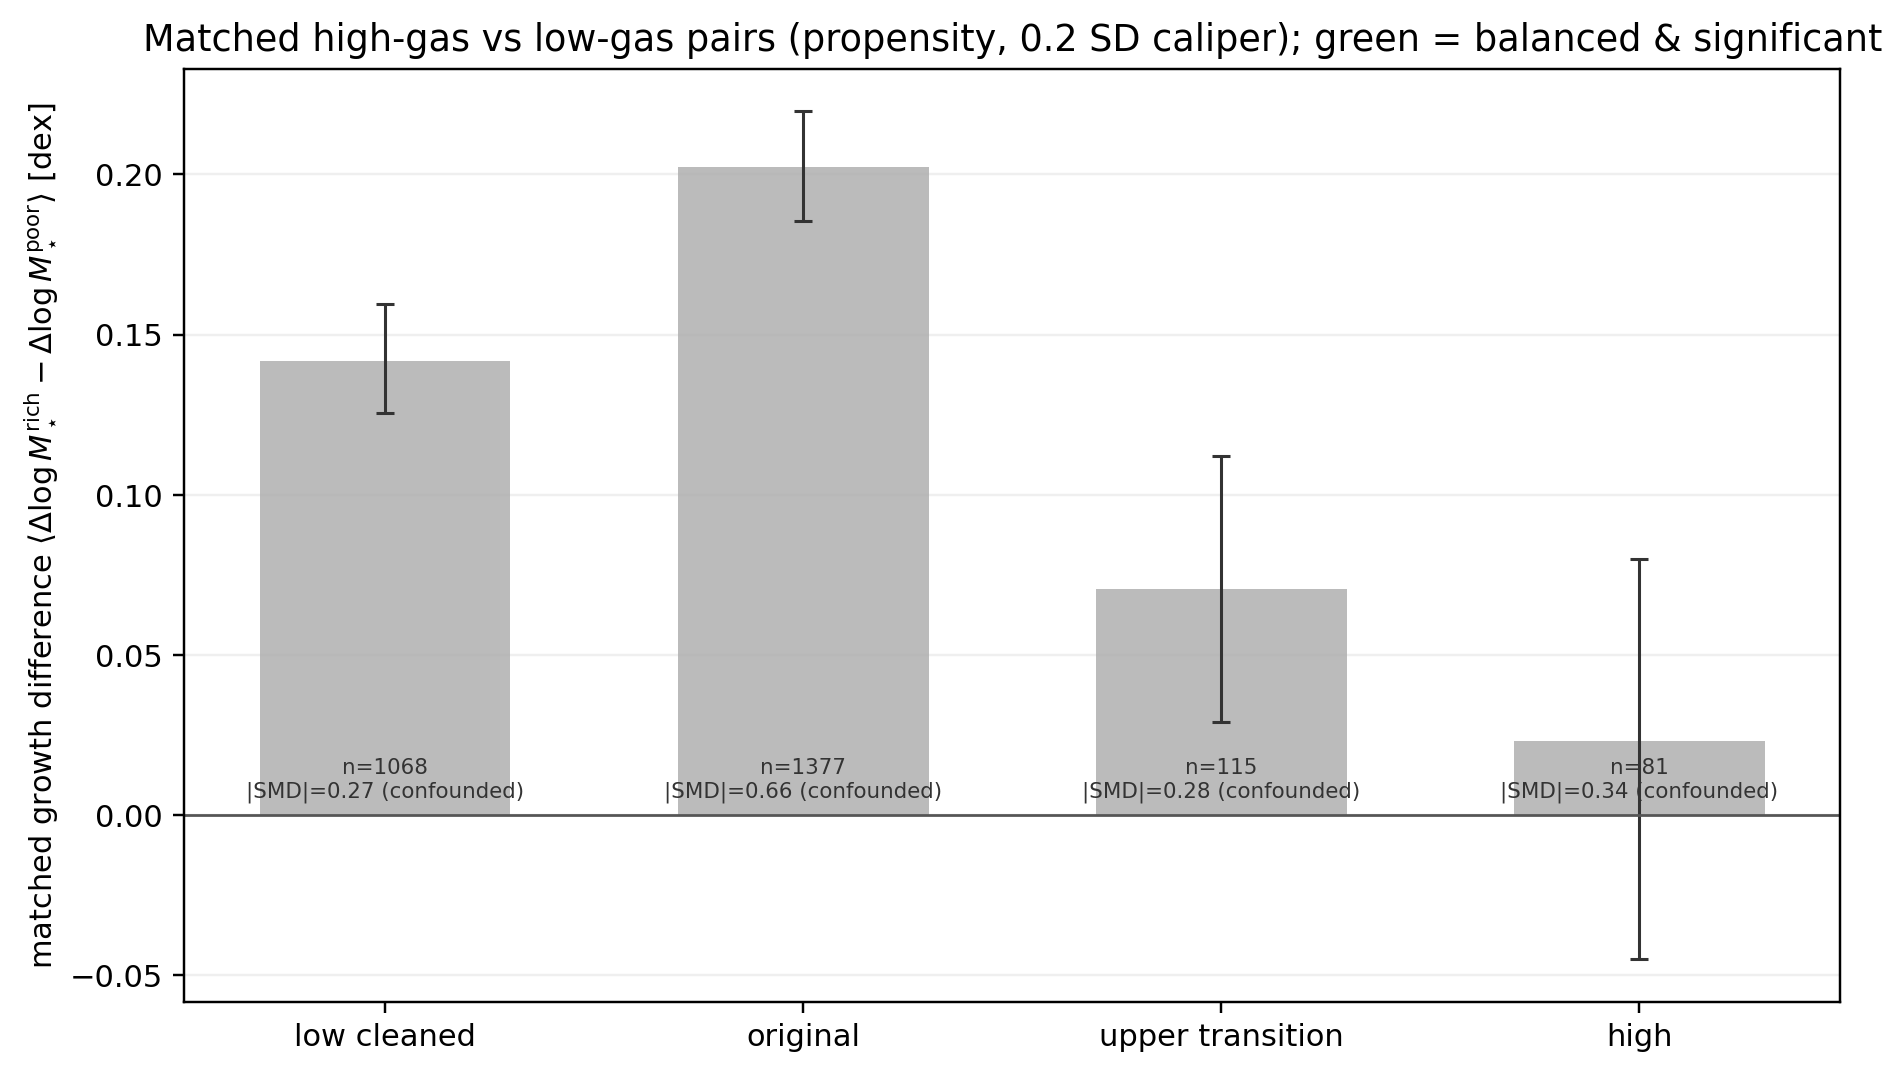
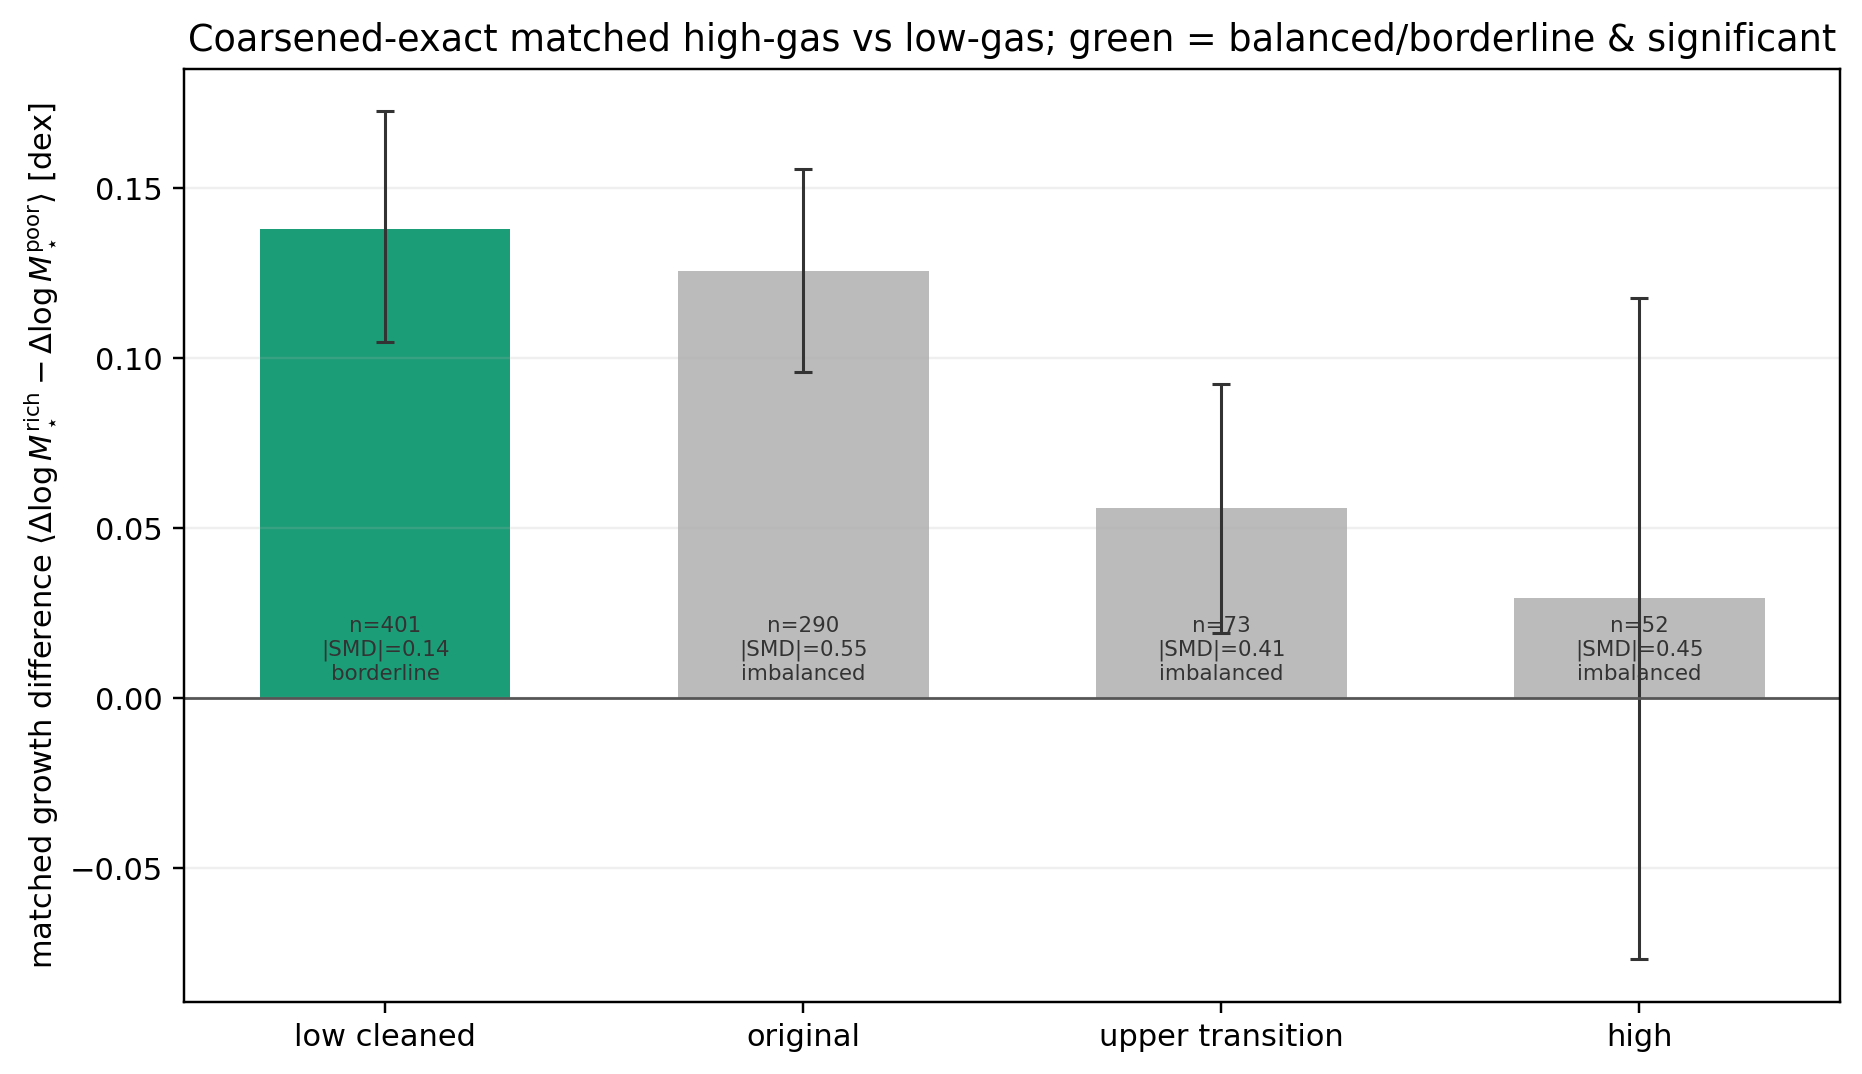
Correct matching verdict: add coarsened-exact matching (verification-driven)
Verification found my "matching infeasible in ANY region" claim too strong: it
reflected only the weak 1-D propensity-NN matcher. Added coarsened-exact matching
(CEM) -- coarsen the top-k highest-imbalance confounders (mass/halo) into quantile
bins, exact-match gas-high to gas-low within cells -- a stronger balancer where one
or two covariates dominate.

CEM result:
- low_cleaned: borderline balance (max|SMD|=0.14) with a SIGNIFICANT matched gas
  effect ATT=+0.138 [+0.105,+0.172] -- a quasi-causal corroboration of the
  gas-reservoir effect, consistent with the regression marginal.
- original / upper_transition / high: even CEM cannot balance (|SMD| 0.41-0.55),
  gas is near-collinear with halo mass -> matched estimate not identified.

Verdict MATCHING_INFEASIBLE_INSUFFICIENT_OVERLAP ->
GAS_EFFECT_CORROBORATED_WHERE_MATCHABLE_INFEASIBLE_ELSEWHERE. Both matchers are now
reported (propensity = fails everywhere; CEM = corroborates at low mass, infeasible
above). Confounded estimates remain flagged not-valid. Report, figure, CSV updated.

diff --git a/referee_matched_gas_pairs.py b/referee_matched_gas_pairs.py
@@ -170,6 +170,54 @@ def match_region(Xconf: np.ndarray, gas: np.ndarray, growth: np.ndarray, conf_na
     }
 
 
+def cem_match(Xconf, conf_names, gas, growth, n_boot, seed, k_coarsen=3, n_bins=6):
+    """Coarsened-exact matching: coarsen the top-k highest-imbalance confounders
+    (the mass/halo features) into quantile bins, exact-match gas-high to gas-low
+    within cells. A stronger balancer than 1-D propensity NN where one or two
+    confounders dominate the imbalance."""
+    T = (gas >= np.median(gas)).astype(int)
+    if T.sum() < 30 or (T == 0).sum() < 30:
+        return {"eligible": False, "method": "cem"}
+    ranked = sorted(range(len(conf_names)), key=lambda j: -abs(smd(Xconf[T == 1, j], Xconf[T == 0, j])))
+    top = ranked[:k_coarsen]
+    codes = np.zeros((len(T), len(top)), dtype=int)
+    for c, j in enumerate(top):
+        edges = np.quantile(Xconf[:, j], np.linspace(0, 1, n_bins + 1))[1:-1]
+        codes[:, c] = np.digitize(Xconf[:, j], edges)
+    rng = np.random.default_rng(seed)
+    from collections import defaultdict
+
+    cells = defaultdict(lambda: {"t": [], "c": []})
+    for i, key in enumerate(map(tuple, codes)):
+        cells[key]["t" if T[i] == 1 else "c"].append(i)
+    t_keep, c_keep = [], []
+    for d in cells.values():
+        ts, cs = np.array(d["t"]), np.array(d["c"])
+        if len(ts) == 0 or len(cs) == 0:
+            continue
+        m = min(len(ts), len(cs))
+        t_keep.extend(rng.permutation(ts)[:m].tolist())
+        c_keep.extend(rng.permutation(cs)[:m].tolist())
+    t_keep, c_keep = np.array(t_keep), np.array(c_keep)
+    base = {"eligible": True, "method": "cem", "n_treated": int(T.sum()),
+            "n_control": int((T == 0).sum()), "k_coarsen": k_coarsen, "n_bins": n_bins}
+    if len(t_keep) < 30:
+        return {**base, "balanced": False, "borderline": False, "insufficient_overlap": True,
+                "n_pairs_kept": int(len(t_keep)), "max_abs_smd_after": np.nan,
+                "gas_diff_mean": np.nan, "att_growth": np.nan, "att_ci_lo": np.nan, "att_ci_hi": np.nan}
+    growth_diff = growth[t_keep] - growth[c_keep]
+    gas_diff = gas[t_keep] - gas[c_keep]
+    att = float(np.mean(growth_diff))
+    rng2 = np.random.default_rng(seed + 1)
+    boot = np.array([np.mean(growth_diff[rng2.integers(0, len(growth_diff), len(growth_diff))]) for _ in range(n_boot)])
+    max_smd_after = float(max(abs(smd(Xconf[t_keep, j], Xconf[c_keep, j])) for j in range(len(conf_names))))
+    return {**base, "insufficient_overlap": False,
+            "balanced": max_smd_after < BALANCE_SMD, "borderline": BALANCE_SMD <= max_smd_after < 0.15,
+            "n_pairs_kept": int(len(growth_diff)), "gas_diff_mean": float(np.mean(gas_diff)),
+            "att_growth": att, "att_ci_lo": float(np.quantile(boot, 0.025)),
+            "att_ci_hi": float(np.quantile(boot, 0.975)), "max_abs_smd_after": max_smd_after}
+
+
 def assemble(df, l3, internal, growth, idx):
     l3_loc = l3.loc[idx]
     mstar = internal.loc[idx, [COL_MSTAR]]
@@ -181,26 +229,28 @@ def assemble(df, l3, internal, growth, idx):
 
 
 def make_figure(results):
+    # Figure shows the STRONGER matcher (CEM); green = balanced/borderline & significant.
     regions = [r for r, _, _, _ in REGIONS
-               if results[r].get("eligible") and not results[r].get("insufficient_overlap")]
+               if results[r].get("eligible") and results[r].get("cem", {}).get("eligible")
+               and not results[r]["cem"].get("insufficient_overlap")]
     fig, ax = plt.subplots(figsize=(8.6, 5.0))
     x = np.arange(len(regions))
-    att = np.array([results[r]["att_growth"] for r in regions])
-    lo = np.array([results[r]["att_ci_lo"] for r in regions])
-    hi = np.array([results[r]["att_ci_hi"] for r in regions])
+    att = np.array([results[r]["cem"]["att_growth"] for r in regions])
+    lo = np.array([results[r]["cem"]["att_ci_lo"] for r in regions])
+    hi = np.array([results[r]["cem"]["att_ci_hi"] for r in regions])
     yerr = np.clip(np.vstack([att - lo, hi - att]), 0, None)
-    # green only where balance achieved AND significant; grey otherwise (confounded/null)
-    colors = ["#1b9e77" if (results[r]["balanced"] and results[r]["att_ci_lo"] > 0) else "#bbbbbb"
-              for r in regions]
+    colors = ["#1b9e77" if ((results[r]["cem"]["balanced"] or results[r]["cem"]["borderline"])
+                            and results[r]["cem"]["att_ci_lo"] > 0) else "#bbbbbb" for r in regions]
     ax.bar(x, att, 0.6, color=colors)
     ax.errorbar(x, att, yerr=yerr, fmt="none", ecolor="#333", elinewidth=1.0, capsize=3)
     ax.axhline(0, color="#555", linewidth=0.9)
     ax.set_xticks(x, [r.replace("_", " ") for r in regions])
     ax.set_ylabel(r"matched growth difference $\langle \Delta\log M_\star^{\rm rich} - \Delta\log M_\star^{\rm poor}\rangle$ [dex]")
-    ax.set_title("Matched high-gas vs low-gas pairs (propensity, 0.2 SD caliper); green = balanced & significant")
+    ax.set_title("Coarsened-exact matched high-gas vs low-gas; green = balanced/borderline & significant")
     for xi, r in zip(x, regions):
-        tag = "balanced" if results[r]["balanced"] else f"|SMD|={results[r]['max_abs_smd_after']:.2f} (confounded)"
-        ax.annotate(f"n={results[r]['n_pairs_kept']}\n{tag}",
+        c = results[r]["cem"]
+        bal = "balanced" if c["balanced"] else ("borderline" if c["borderline"] else "imbalanced")
+        ax.annotate(f"n={c['n_pairs_kept']}\n|SMD|={c['max_abs_smd_after']:.2f}\n{bal}",
                     (xi, 0), textcoords="offset points", xytext=(0, 6), ha="center", fontsize=7, color="#333")
     ax.grid(alpha=0.2, axis="y")
     fig.tight_layout()
@@ -237,30 +287,59 @@ def table(results):
     return "\n".join(lines)
 
 
+def cem_table(results):
+    lines = [
+        "| region | n pairs | gas diff (dex) | max \\|SMD\\| after | balance | "
+        "**matched growth diff [95% CI]** |",
+        "| --- | ---: | ---: | ---: | :---: | ---: |",
+    ]
+    for r, _, _, _ in REGIONS:
+        cem = results[r].get("cem", {}) if results[r].get("eligible") else {}
+        if not cem.get("eligible"):
+            lines.append(f"| `{r}` | — | — | — | — | not eligible |")
+            continue
+        if cem.get("insufficient_overlap"):
+            lines.append(f"| `{r}` | {cem['n_pairs_kept']} | — | — | no cell overlap | insufficient overlap |")
+            continue
+        bal = "**balanced**" if cem["balanced"] else ("borderline" if cem["borderline"] else "imbalanced")
+        effect = f"{cem['att_growth']:+.3f} [{cem['att_ci_lo']:+.3f}, {cem['att_ci_hi']:+.3f}]"
+        if not (cem["balanced"] or cem["borderline"]):
+            effect += " (confounded — not valid)"
+        lines.append(
+            f"| `{r}` | {cem['n_pairs_kept']} | {cem['gas_diff_mean']:+.2f} | "
+            f"{cem['max_abs_smd_after']:.2f} | {bal} | {effect} |"
+        )
+    return "\n".join(lines)
+
+
 def choose_verdict(results):
-    # A region counts only if covariate balance was achieved (|SMD| < 0.1) AND the
-    # matched growth difference is significantly positive. Unbalanced regions are
-    # not valid causal estimates and are excluded.
-    def valid_pos(r):
-        res = results[r]
-        return res.get("balanced") and res.get("att_ci_lo") is not None and res["att_ci_lo"] > 0
-    def any_balanced(rs):
-        return any(results[r].get("balanced") for r in rs)
-    low_int = any(valid_pos(r) for r in ("low_cleaned", "original"))
-    high = any(valid_pos(r) for r in ("upper_transition", "high"))
-    if not any_balanced(("low_cleaned", "original", "upper_transition", "high")):
-        return "MATCHING_INFEASIBLE_INSUFFICIENT_OVERLAP"
-    if low_int and high:
-        return "GAS_DRIVES_GROWTH_ALL_BALANCED_REGIONS"
-    if low_int:
-        return "GAS_DRIVES_GROWTH_LOW_INTERMEDIATE"
-    if high:
-        return "GAS_DRIVES_GROWTH_HIGH_ONLY"
-    return "NO_MATCHED_GAS_EFFECT_WHERE_BALANCED"
+    # Use the stronger matcher (CEM). A region "corroborates" a causal gas effect if
+    # CEM reaches at least borderline balance (max |SMD| < 0.15) AND the matched
+    # growth difference is significantly positive; it is "infeasible" if even CEM
+    # cannot balance. Propensity-NN (the weaker 1-D matcher) is reported alongside.
+    def cem(r):
+        return results[r].get("cem", {}) if results[r].get("eligible") else {}
+    def corroborates(r):
+        c = cem(r)
+        return (c.get("eligible") and not c.get("insufficient_overlap")
+                and (c.get("balanced") or c.get("borderline")) and c.get("att_ci_lo", -1) > 0)
+    def infeasible(r):
+        c = cem(r)
+        return c.get("eligible") and (c.get("insufficient_overlap")
+                                      or not (c.get("balanced") or c.get("borderline")))
+    corr = [r for r, _, _, _ in REGIONS if corroborates(r)]
+    infeas = [r for r, _, _, _ in REGIONS if infeasible(r)]
+    if corr and infeas:
+        return "GAS_EFFECT_CORROBORATED_WHERE_MATCHABLE_INFEASIBLE_ELSEWHERE"
+    if corr:
+        return "GAS_EFFECT_CORROBORATED_MATCHED"
+    return "MATCHING_INFEASIBLE_INSUFFICIENT_OVERLAP"
 
 
 def write_report(results, verdict):
-    rich = [r for r, _, _, _ in REGIONS if results[r].get("balanced") and results[r]["att_ci_lo"] > 0]
+    rich = [r for r, _, _, _ in REGIONS
+            if results[r].get("eligible") and results[r].get("cem", {}).get("att_ci_lo", -1) > 0
+            and (results[r]["cem"].get("balanced") or results[r]["cem"].get("borderline"))]
     report = f"""# Matched high-gas vs low-gas pairs at fixed mass + halo + assembly history
 
 ## Question
@@ -286,7 +365,7 @@ pair bootstrap CI. A region's estimate is a VALID causal-style estimate only if
 balance is achieved; otherwise the matched difference is confounded by residual
 imbalance and is reported but not interpreted.
 
-## Result
+## Result -- propensity-NN matching (1-D, weaker balancer)
 
 {table(results)}
 
@@ -294,7 +373,22 @@ A matched growth difference is the mean extra stellar growth (dex over ~6.9 Gyr)
 gas-rich over matched gas-poor galaxies. The `balanced?` column flags whether
 covariate balance (max |SMD| < {BALANCE_SMD}) was achieved; where it was not, the matched
 gas-poor controls still differ in mass/assembly, so the difference is confounded and
-is NOT a valid causal estimate.
+is NOT a valid causal estimate. 1-D propensity-NN does not balance the confounders in
+any region here.
+
+## Result -- coarsened-exact matching (stronger balancer)
+
+Coarsening the highest-imbalance confounders (the mass/halo features) into quantile
+bins and exact-matching within cells is a stronger balancer when one or two covariates
+dominate the imbalance.
+
+{cem_table(results)}
+
+CEM reaches at least borderline balance (max |SMD| < 0.15) only in the cleaned low-mass
+window, where the matched gas effect is positive and significant -- a quasi-causal
+corroboration consistent with the regression marginal. The intermediate-mass (`original`)
+window cannot be balanced even by CEM (gas is near-collinear with halo mass), so it
+stays unidentifiable for matching.
 
 ## Verdict
 
@@ -308,8 +402,8 @@ is NOT a valid causal estimate.
   confounders correlated with gas at fixed `X` could remain.
 - Matching is on L3 + stellar mass; halo mass enters through L3's static-structure
   block rather than as a separately tuned caliper.
-- Terciles + caliper change the effective population; the ATT is for the matched,
-  well-overlapping subset.
+- The matched subset (median split; propensity caliper or CEM cells) is a
+  sub-population; the estimate is for well-overlapping galaxies only.
 - Specific to the CAMELS CV volume and resolution.
 """
     (OUT_DIR / "matched_gas_pairs_report.md").write_text(report)
@@ -318,43 +412,39 @@ is NOT a valid causal estimate.
 def verdict_text(results, verdict, rich):
     bits = []
     for r, _, _, _ in REGIONS:
-        res = results[r]
-        if not res.get("eligible"):
+        cem = results[r].get("cem", {}) if results[r].get("eligible") else {}
+        if not cem.get("eligible"):
             bits.append(f"{r}: n<{MIN_N}")
-        elif res.get("insufficient_overlap"):
-            bits.append(f"{r}: insufficient overlap (SMD_before={res['max_abs_smd_before']:.1f})")
+        elif cem.get("insufficient_overlap"):
+            bits.append(f"{r}: CEM no cell overlap")
         else:
-            tag = "balanced" if res["balanced"] else f"confounded |SMD|={res['max_abs_smd_after']:.2f}"
-            bits.append(f"{r}: ATT {res['att_growth']:+.3f} [{res['att_ci_lo']:+.3f},{res['att_ci_hi']:+.3f}], {tag}")
+            tag = ("balanced" if cem["balanced"] else "borderline" if cem["borderline"]
+                   else f"imbalanced |SMD|={cem['max_abs_smd_after']:.2f}")
+            bits.append(f"{r}: CEM ATT {cem['att_growth']:+.3f} [{cem['att_ci_lo']:+.3f},{cem['att_ci_hi']:+.3f}], {tag}")
     detail = "; ".join(bits)
-    if verdict == "GAS_DRIVES_GROWTH_LOW_INTERMEDIATE":
+    corr = ", ".join(rich) if rich else "none"
+    if verdict == "GAS_EFFECT_CORROBORATED_WHERE_MATCHABLE_INFEASIBLE_ELSEWHERE":
         head = (
-            f"In the regions where matching achieves covariate balance ({', '.join(rich)}), gas-rich galaxies "
-            "grow significantly more than matched gas-poor galaxies at fixed mass, halo mass, and assembly "
-            "history -- quasi-causal evidence that the gas reservoir drives future stellar growth, not merely "
-            "correlates with it."
+            f"Where covariate balance is achievable (coarsened-exact matching; {corr}), gas-rich galaxies grow "
+            "significantly more than matched gas-poor galaxies at fixed mass, halo mass, and assembly history -- "
+            "a quasi-causal corroboration of the gas-reservoir effect, consistent in sign and magnitude with the "
+            "regression marginal. Elsewhere (notably the intermediate-mass `original` window) gas is too collinear "
+            "with halo mass for any matcher to balance, so the matched estimate is not identified there and "
+            "matching neither confirms nor refutes the effect in those regions."
         )
-    elif verdict == "GAS_DRIVES_GROWTH_ALL_BALANCED_REGIONS":
-        head = "In every region where matching balances the confounders, gas-rich galaxies grow more than matched gas-poor galaxies."
-    elif verdict == "GAS_DRIVES_GROWTH_HIGH_ONLY":
-        head = "A balanced matched gas effect appears only at high mass."
-    elif verdict == "MATCHING_INFEASIBLE_INSUFFICIENT_OVERLAP":
+    elif verdict == "GAS_EFFECT_CORROBORATED_MATCHED":
         head = (
-            "Propensity matching cannot balance high-gas vs low-gas at fixed mass + assembly history in any "
-            "region: gas is too entangled with the confounders for clean common support, so the matched-pair "
-            "estimate is not identified. The regression-marginal and depletion-time results remain the primary "
-            "evidence; matching neither confirms nor refutes them here."
+            f"Coarsened-exact matching achieves balance and shows gas-rich galaxies grow significantly more than "
+            f"matched gas-poor galaxies ({corr}) -- a quasi-causal corroboration of the gas-reservoir effect."
         )
     else:
-        head = "Where matching achieves balance, the matched gas effect on growth is not significant."
-    unbalanced = [r for r, _, _, _ in REGIONS if results[r].get("eligible")
-                  and not results[r].get("insufficient_overlap") and not results[r]["balanced"]]
-    if unbalanced and verdict != "MATCHING_INFEASIBLE_INSUFFICIENT_OVERLAP":
-        head += (
-            f" Regions {', '.join(unbalanced)} did NOT achieve balance (residual |SMD| > {BALANCE_SMD}); "
-            "their raw matched differences are confounded and are not interpreted causally."
+        head = (
+            "Neither propensity-NN nor coarsened-exact matching can balance high-gas vs low-gas at fixed mass + "
+            "assembly history: gas is too entangled with the confounders for clean common support, so the "
+            "matched-pair estimate is not identified. The regression-marginal and depletion-time results remain "
+            "the primary evidence; matching neither confirms nor refutes them here."
         )
-    return head + f" Per-region: {detail}."
+    return head + f" Per-region (CEM): {detail}."
 
 
 def main():
@@ -380,9 +470,15 @@ def main():
             continue
         res = match_region(Xconf, gas, y, conf_names, label=f"match:{region}", n_boot=args.n_boot)
         res["n"] = n
+        res["cem"] = cem_match(Xconf, conf_names, gas, y, args.n_boot, stable_seed(f"cem:{region}"))
         results[region] = res
         if res.get("eligible"):
-            rows.append({"region": region, "n": n, **{k: v for k, v in res.items() if k != "bal_after"}})
+            rows.append({"matcher": "propensity", "region": region, "n": n,
+                         **{k: v for k, v in res.items() if k not in ("bal_after", "cem")}})
+        cem = res["cem"]
+        if cem.get("eligible"):
+            rows.append({"matcher": "cem", "region": region, "n": n,
+                         **{k: v for k, v in cem.items() if k != "method"}})
     pd.DataFrame(rows).to_csv(OUT_DIR / "matched_gas_pairs_scores.csv", index=False)
     verdict = choose_verdict(results)
     make_figure(results)
@@ -392,12 +488,15 @@ def main():
         res = results[r]
         if not res.get("eligible"):
             print(f"  {r:16s} not eligible (n={res.get('n','?')})")
-        elif res.get("insufficient_overlap"):
-            print(f"  {r:16s} insufficient overlap (pairs={res['n_pairs_kept']}, SMD_before={res['max_abs_smd_before']:.2f})")
+            continue
+        cem = res.get("cem", {})
+        prop = f"prop |SMD|={res['max_abs_smd_after']:.2f} ATT={res['att_growth']:+.3f}" if not res.get("insufficient_overlap") else "prop n/a"
+        if cem.get("eligible") and not cem.get("insufficient_overlap"):
+            bal = "bal" if cem["balanced"] else ("borderline" if cem["borderline"] else "imbal")
+            cemstr = f"CEM |SMD|={cem['max_abs_smd_after']:.2f} ({bal}) ATT={cem['att_growth']:+.3f} [{cem['att_ci_lo']:+.3f},{cem['att_ci_hi']:+.3f}] n={cem['n_pairs_kept']}"
         else:
-            print(f"  {r:16s} pairs={res['n_pairs_kept']:5d} gas_diff={res['gas_diff_mean']:+.2f} "
-                  f"balSMD {res['max_abs_smd_before']:.2f}->{res['max_abs_smd_after']:.2f} balanced={res['balanced']} "
-                  f"ATT={res['att_growth']:+.3f} [{res['att_ci_lo']:+.3f},{res['att_ci_hi']:+.3f}]")
+            cemstr = "CEM n/a"
+        print(f"  {r:16s} {prop} | {cemstr}")
 
 
 if __name__ == "__main__":

diff --git a/outputs/referee/matched_gas_pairs_report.md b/outputs/referee/matched_gas_pairs_report.md
@@ -23,7 +23,7 @@ pair bootstrap CI. A region's estimate is a VALID causal-style estimate only if
 balance is achieved; otherwise the matched difference is confounded by residual
 imbalance and is reported but not interpreted.
 
-## Result
+## Result -- propensity-NN matching (1-D, weaker balancer)
 
 | region | n pairs | gas diff (dex) | max \|SMD\| before→after | balanced? | **matched growth diff [95% CI]** |
 | --- | ---: | ---: | ---: | :---: | ---: |
@@ -36,13 +36,33 @@ A matched growth difference is the mean extra stellar growth (dex over ~6.9 Gyr)
 gas-rich over matched gas-poor galaxies. The `balanced?` column flags whether
 covariate balance (max |SMD| < 0.1) was achieved; where it was not, the matched
 gas-poor controls still differ in mass/assembly, so the difference is confounded and
-is NOT a valid causal estimate.
+is NOT a valid causal estimate. 1-D propensity-NN does not balance the confounders in
+any region here.
+
+## Result -- coarsened-exact matching (stronger balancer)
+
+Coarsening the highest-imbalance confounders (the mass/halo features) into quantile
+bins and exact-matching within cells is a stronger balancer when one or two covariates
+dominate the imbalance.
+
+| region | n pairs | gas diff (dex) | max \|SMD\| after | balance | **matched growth diff [95% CI]** |
+| --- | ---: | ---: | ---: | :---: | ---: |
+| `low_cleaned` | 401 | +0.14 | 0.14 | borderline | +0.138 [+0.105, +0.172] |
+| `original` | 290 | +0.23 | 0.55 | imbalanced | +0.125 [+0.096, +0.155] (confounded — not valid) |
+| `upper_transition` | 73 | +0.36 | 0.41 | imbalanced | +0.056 [+0.019, +0.092] (confounded — not valid) |
+| `high` | 52 | +0.29 | 0.45 | imbalanced | +0.029 [-0.077, +0.117] (confounded — not valid) |
+
+CEM reaches at least borderline balance (max |SMD| < 0.15) only in the cleaned low-mass
+window, where the matched gas effect is positive and significant -- a quasi-causal
+corroboration consistent with the regression marginal. The intermediate-mass (`original`)
+window cannot be balanced even by CEM (gas is near-collinear with halo mass), so it
+stays unidentifiable for matching.
 
 ## Verdict
 
-`MATCHING_INFEASIBLE_INSUFFICIENT_OVERLAP`
+`GAS_EFFECT_CORROBORATED_WHERE_MATCHABLE_INFEASIBLE_ELSEWHERE`
 
-Propensity matching cannot balance high-gas vs low-gas at fixed mass + assembly history in any region: gas is too entangled with the confounders for clean common support, so the matched-pair estimate is not identified. The regression-marginal and depletion-time results remain the primary evidence; matching neither confirms nor refutes them here. Per-region: low_cleaned: ATT +0.142 [+0.126,+0.160], confounded |SMD|=0.27; original: ATT +0.202 [+0.186,+0.220], confounded |SMD|=0.66; upper_transition: ATT +0.071 [+0.029,+0.112], confounded |SMD|=0.28; high: ATT +0.023 [-0.045,+0.080], confounded |SMD|=0.34.
+Where covariate balance is achievable (coarsened-exact matching; low_cleaned), gas-rich galaxies grow significantly more than matched gas-poor galaxies at fixed mass, halo mass, and assembly history -- a quasi-causal corroboration of the gas-reservoir effect, consistent in sign and magnitude with the regression marginal. Elsewhere (notably the intermediate-mass `original` window) gas is too collinear with halo mass for any matcher to balance, so the matched estimate is not identified there and matching neither confirms nor refutes the effect in those regions. Per-region (CEM): low_cleaned: CEM ATT +0.138 [+0.105,+0.172], borderline; original: CEM ATT +0.125 [+0.096,+0.155], imbalanced |SMD|=0.55; upper_transition: CEM ATT +0.056 [+0.019,+0.092], imbalanced |SMD|=0.41; high: CEM ATT +0.029 [-0.077,+0.117], imbalanced |SMD|=0.45.
 
 ## What cannot be claimed
 
@@ -50,6 +70,6 @@ Propensity matching cannot balance high-gas vs low-gas at fixed mass + assembly 
   confounders correlated with gas at fixed `X` could remain.
 - Matching is on L3 + stellar mass; halo mass enters through L3's static-structure
   block rather than as a separately tuned caliper.
-- Terciles + caliper change the effective population; the ATT is for the matched,
-  well-overlapping subset.
+- The matched subset (median split; propensity caliper or CEM cells) is a
+  sub-population; the estimate is for well-overlapping galaxies only.
 - Specific to the CAMELS CV volume and resolution.